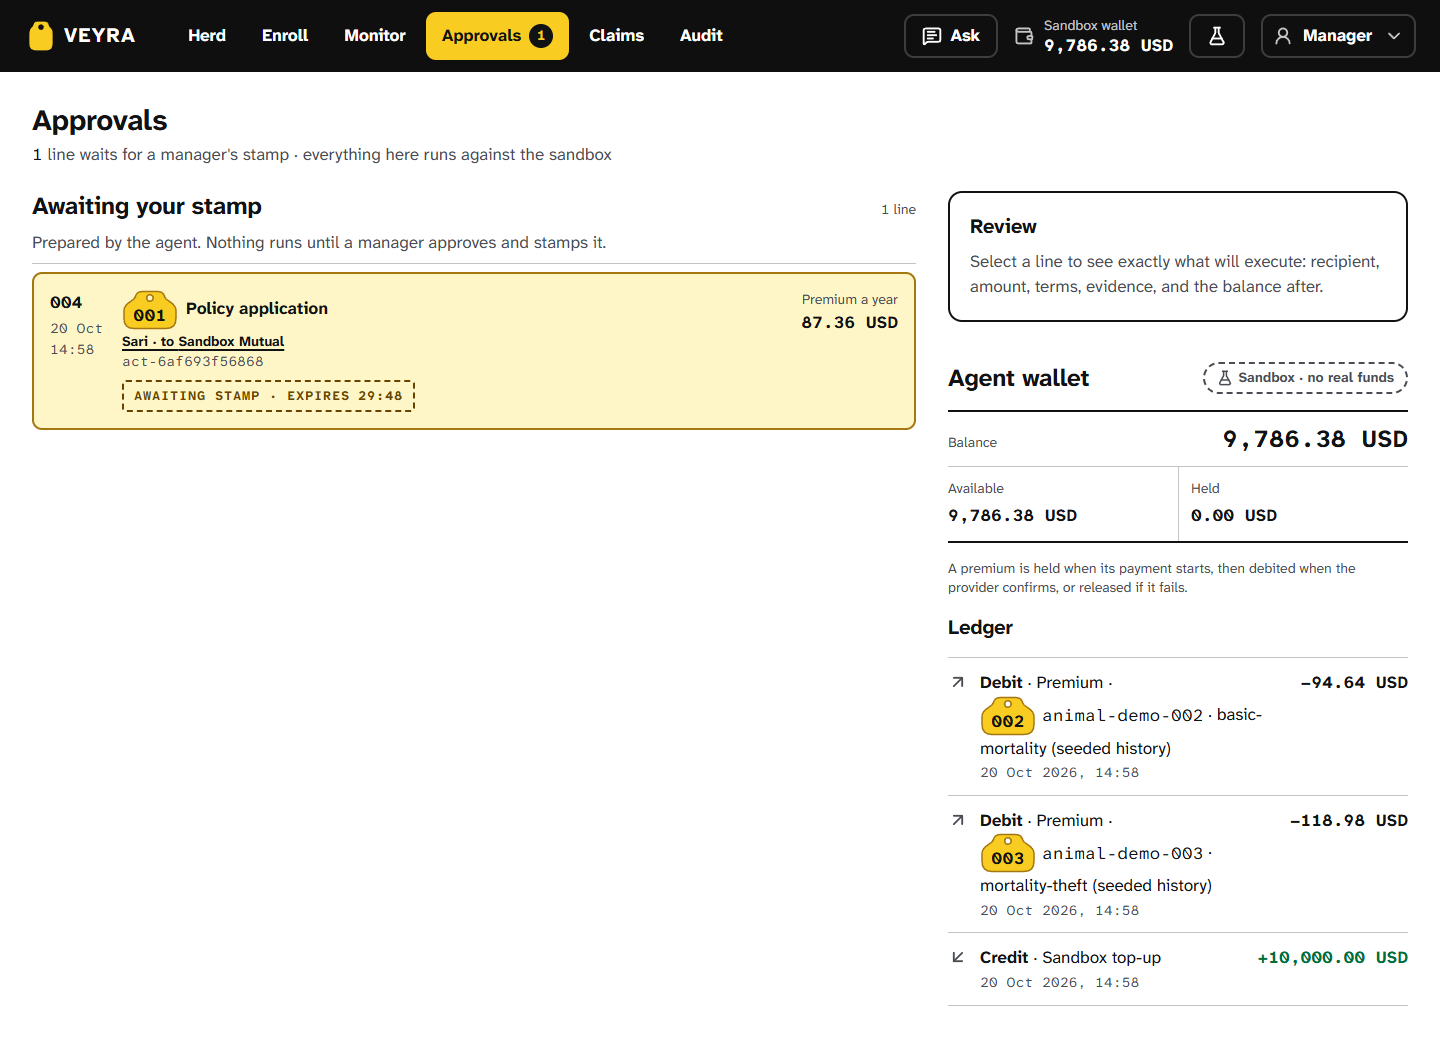
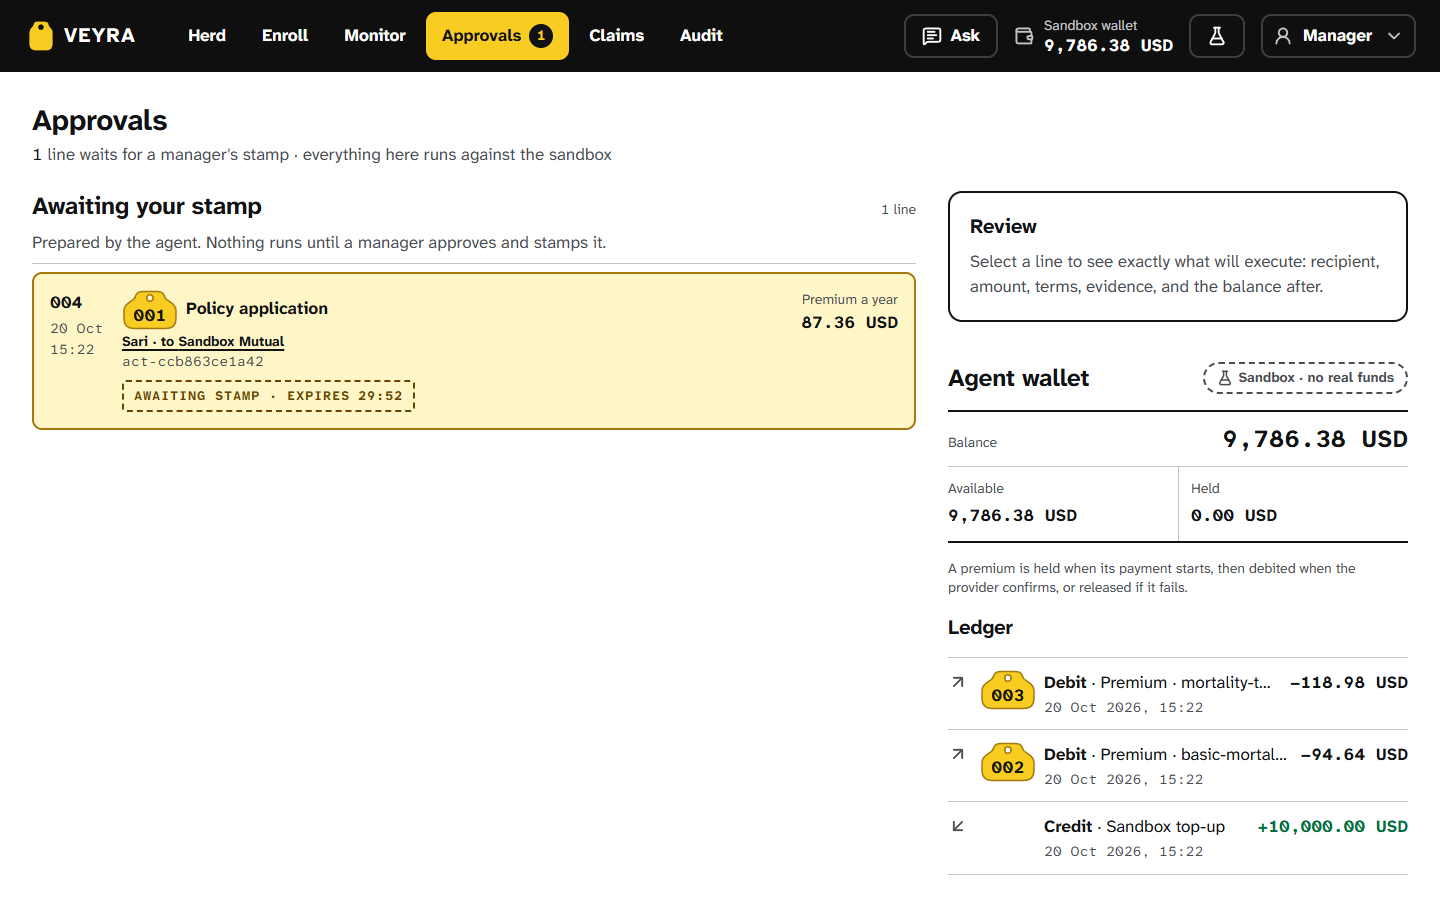
fix(web): compact passbook header on short screens, nowrap pills and herd meta, tag column in wallet ledger
- Passbook header compacts under max-height 820px (md tag, one meta line, one-row
  exposure strip) so the awaiting line and stamp slot sit above the decision bar
  at 1024x768 and 1440x900; .pb-list fades its top edge once scrolled.
- Status pills never wrap; beside the passbook at 1024 long statuses show a short
  word with the full label kept for screen readers. Herd meta segments are nowrap
  with their separator inside.
- Wallet ledger rows put the animal tag in a fixed leading column and keep the
  description on one truncated line with a title.
- Alert drawer window times let the zone label wrap instead of colliding.
- Refresh review captures; add monitor-replay.png and alert-time.png.

Changed region(s): [[0.0, 0.0, 1.0, 0.957], [0.9062, 0.7409, 0.9688, 0.8335], [0.875, 0.8953, 1.0, 0.9261]]

diff --git a/apps/web/src/components/PassbookPanel.tsx b/apps/web/src/components/PassbookPanel.tsx
@@ -1,6 +1,7 @@
 import { Lock, Stamp as StampIcon } from "lucide-react";
-import { useId, type ReactNode } from "react";
+import { useEffect, useId, useRef, type ReactNode } from "react";
 import { cn } from "../lib/cn";
+import { useMediaQuery } from "../lib/use-media-query";
 import { formatMoney, lineNumber } from "../lib/format";
 import { Money } from "./figures";
 import { Button } from "./Button";
@@ -92,25 +93,49 @@ export function PassbookPanel({
   const currency = summary?.currency ?? "USD";
   const uninsuredLow = summary ? Math.max(0, summary.exposureLowMinor - summary.insuredMinor) : 0;
   const uninsuredHigh = summary ? Math.max(0, summary.exposureHighMinor - summary.insuredMinor) : 0;
+  // On a short screen (a 1024×768 tablet) the header compacts so the waiting line and its stamp
+  // slot stay above the decision bar: a smaller tag, one meta line, and a one-row exposure strip.
+  const compact = useMediaQuery("(max-height: 820px)");
+  const cell = compact ? "py-2" : "py-3";
+  const listRef = useRef<HTMLOListElement>(null);
+
+  // Fade the top edge once lines scroll under it, so a cut-off earlier line reads as "more above".
+  useEffect(() => {
+    const list = listRef.current;
+    if (!list) return;
+    const update = () => {
+      if (list.scrollTop > 0) list.setAttribute("data-scrolled", "");
+      else list.removeAttribute("data-scrolled");
+    };
+    update();
+    list.addEventListener("scroll", update, { passive: true });
+    return () => list.removeEventListener("scroll", update);
+  }, [lines.length]);
 
   return (
     <section aria-labelledby={headingId} className={cn("flex min-h-0 flex-col bg-bg", className)}>
-      <div className="flex flex-col gap-5 px-5 pt-6 pb-5">
-        <div className="flex items-center gap-5">
-          <EarTag animalId={animal.id} state={animal.tagState} size="xl" />
+      <div className={cn("flex flex-col", compact ? "gap-3 px-5 pt-4 pb-3" : "gap-5 px-5 pt-6 pb-5")} data-compact={compact || undefined}>
+        <div className={cn("flex items-center", compact ? "gap-4" : "gap-5")}>
+          <EarTag animalId={animal.id} state={animal.tagState} size={compact ? "md" : "xl"} />
           <div className="flex min-w-0 flex-col gap-1">
             <Heading id={headingId} className="text-xl font-bold">
               {animal.name}
             </Heading>
-            <p className="text-muted">
-              <span className="figures whitespace-nowrap text-ink">{animal.id}</span>
-              <br />
-              {IDENTITY_WORDS[animal.tagState]}
-            </p>
+            {compact ? (
+              <p className="truncate text-sm text-muted">
+                <span className="figures whitespace-nowrap text-ink">{animal.id}</span> · {IDENTITY_WORDS[animal.tagState]}
+              </p>
+            ) : (
+              <p className="text-muted">
+                <span className="figures whitespace-nowrap text-ink">{animal.id}</span>
+                <br />
+                {IDENTITY_WORDS[animal.tagState]}
+              </p>
+            )}
           </div>
         </div>
         {/* Full width under the tag, so breed, age, and weight with their sources read on as few lines as possible. */}
-        {animal.description && <div className="-mt-2 text-muted">{animal.description}</div>}
+        {animal.description && <div className={cn("text-muted", !compact && "-mt-2")}>{animal.description}</div>}
 
         {facts && facts.length > 0 && (
           <dl className="grid grid-cols-2 gap-x-5">
@@ -127,16 +152,22 @@ export function PassbookPanel({
         )}
 
         {summary && (
-          <dl className="grid grid-cols-[minmax(0,1fr)_auto_minmax(0,1fr)] border-y-2 border-ink">
-            <div className="flex flex-col gap-1 py-3 pr-3">
+          <dl
+            className={cn(
+              "grid border-y-2 border-ink",
+              // Compact: each figure keeps to one line, so the strip is a single row of three cells.
+              compact ? "grid-cols-[auto_auto_minmax(0,1fr)] [&_dd]:text-sm [&_dd]:whitespace-nowrap" : "grid-cols-[minmax(0,1fr)_auto_minmax(0,1fr)]",
+            )}
+          >
+            <div className={cn("flex flex-col gap-1 pr-3", cell)}>
               <dt className="text-sm text-muted">Exposure</dt>
               <dd className="figures font-bold"><Money low={summary.exposureLowMinor} high={summary.exposureHighMinor} currency={currency} /></dd>
             </div>
-            <div className="flex flex-col gap-1 border-l border-line px-3 py-3">
+            <div className={cn("flex flex-col gap-1 border-l border-line px-3", cell)}>
               <dt className="text-sm text-muted">Insured</dt>
               <dd className="figures font-bold"><Money minor={summary.insuredMinor} currency={currency} whole /></dd>
             </div>
-            <div className="flex flex-col gap-1 border-l border-line py-3 pl-3">
+            <div className={cn("flex flex-col gap-1 border-l border-line pl-3", cell)}>
               <dt className="text-sm text-muted">Uninsured</dt>
               <dd className={cn("figures font-bold", uninsuredHigh > 0 && "text-danger")}>
                 {uninsuredHigh === 0 ? <Money minor={0} currency={currency} whole /> : <Money low={uninsuredLow} high={uninsuredHigh} currency={currency} />}
@@ -158,7 +189,7 @@ export function PassbookPanel({
             Nothing has posted yet. Enrollment writes the first line.
           </p>
         ) : (
-          <ol className="pb-list relative min-h-0 flex-1 overflow-y-auto border-t border-line px-1 [scrollbar-gutter:stable]">
+          <ol ref={listRef} className="pb-list relative min-h-0 flex-1 overflow-y-auto border-t border-line px-1 [scrollbar-gutter:stable]">
             {lines.map((line) => (
               <PassbookLine key={line.id} {...line} timeZone={timeZone} />
             ))}

diff --git a/apps/web/src/features/approvals/WalletPanel.tsx b/apps/web/src/features/approvals/WalletPanel.tsx
@@ -1,9 +1,9 @@
 import { ArrowDownLeft, ArrowUpRight, FlaskConical, Lock, LockOpen, type LucideIcon } from "lucide-react";
-import { Fragment, useId, type ReactNode } from "react";
+import { useId } from "react";
 import { Link } from "react-router";
 import { ErrorNotice, LoadingRegion, Skeleton } from "../../components/feedback";
 import { EarTag } from "../../components/EarTag";
-import { Money, Mono, Timestamp } from "../../components/figures";
+import { Money, Timestamp } from "../../components/figures";
 import { tagStateFor } from "../../lib/animal";
 import { cn } from "../../lib/cn";
 import { formatMoney } from "../../lib/format";
@@ -18,21 +18,11 @@ function withoutLeadingWord(description: string, word: string): string {
 
 const ANIMAL_ID = /^animal-[\w-]+$/;
 
-/** Prints any animal ID in a ledger description as its tag chip and the mono ID. */
-function describe(text: string, identity: Map<string, string>): ReactNode {
-  return text.split(" · ").map((part, i) => (
-    <Fragment key={i}>
-      {i > 0 && " · "}
-      {ANIMAL_ID.test(part) ? (
-        <span className="inline-flex items-center gap-1.5 align-middle">
-          <EarTag animalId={part} state={tagStateFor(identity.get(part) ?? "confirmed")} />
-          <Mono>{part}</Mono>
-        </span>
-      ) : (
-        part
-      )}
-    </Fragment>
-  ));
+/** Splits a ledger description into the animal it names (shown as the row's tag) and the remaining words. */
+function splitAnimal(text: string): { animalId: string | null; rest: string } {
+  const parts = text.split(" · ");
+  const animalId = parts.find((part) => ANIMAL_ID.test(part)) ?? null;
+  return { animalId, rest: parts.filter((part) => part !== animalId).join(" · ") };
 }
 
 const ENTRY: Record<WalletEntry["entry_type"], { icon: LucideIcon; word: string; sign: 1 | -1 | 0 }> = {
@@ -99,16 +89,23 @@ export function WalletPanel({ className }: { className?: string }) {
                 .map((entry) => {
                   const kind = ENTRY[entry.entry_type];
                   const Icon = kind.icon;
+                  const { animalId, rest } = splitAnimal(withoutLeadingWord(entry.description, kind.word));
+                  const fullText = [kind.word, rest, animalId].filter(Boolean).join(" · ");
                   const figure =
                     kind.sign === 0
                       ? formatMoney(entry.amount_minor, entry.currency)
                       : formatMoney(kind.sign * entry.amount_minor, entry.currency, { signed: true });
                   return (
-                    <li key={entry.id} className="grid grid-cols-[auto_minmax(0,1fr)_auto] items-start gap-x-3 border-b border-line py-3">
+                    // The tag sits in its own leading column so the description keeps to one line.
+                    <li key={entry.id} className="grid grid-cols-[auto_3.25rem_minmax(0,1fr)_auto] items-start gap-x-3 border-b border-line py-3">
                       <Icon aria-hidden="true" className="mt-0.5 size-5 text-muted" strokeWidth={2.25} />
+                      <span className="flex min-h-6 items-start">
+                        {animalId && <EarTag animalId={animalId} state={tagStateFor(identity.get(animalId) ?? "confirmed")} />}
+                      </span>
                       <div className="flex min-w-0 flex-col gap-0.5">
-                        <span>
-                          <span className="font-bold">{kind.word}</span> · {describe(withoutLeadingWord(entry.description, kind.word), identity)}
+                        <span className="truncate" title={fullText}>
+                          <span className="font-bold">{kind.word}</span>
+                          {rest && <> · {rest}</>}
                         </span>
                         <span className="text-sm text-muted">
                           <Timestamp value={entry.created_at} mode="absolute" />

diff --git a/apps/web/src/lib/animal.ts b/apps/web/src/lib/animal.ts
@@ -25,10 +25,10 @@ export function identityPill(identityStatus: string | null | undefined): { tone:
   }
 }
 
-export function coveragePill(status: string | null | undefined): { tone: StatusTone; label: string } {
+export function coveragePill(status: string | null | undefined): { tone: StatusTone; label: string; shortLabel?: string } {
   if (status === "active") return { tone: "ok", label: "Active" };
   if (status === "pending") return { tone: "awaiting", label: "Pending" };
-  return { tone: "danger", label: "Not covered" };
+  return { tone: "danger", label: "Not covered", shortLabel: "None" };
 }
 
 export type HealthStatus =
@@ -39,17 +39,19 @@ export type HealthStatus =
   | "normal"
   | "not_monitored";
 
-const HEALTH_PILL: Record<HealthStatus, { tone: StatusTone; label: string; icon?: LucideIcon }> = {
-  needs_inspection: { tone: "danger", label: "Needs inspection", icon: Eye },
-  under_review: { tone: "uncertain", label: "Under review", icon: Hourglass },
-  observation_gap: { tone: "uncertain", label: "Observation gap", icon: EyeOff },
-  veterinary_reviewed: { tone: "ok", label: "Vet reviewed", icon: Stethoscope },
+type HealthPill = { tone: StatusTone; label: string; shortLabel?: string; icon?: LucideIcon };
+
+const HEALTH_PILL: Record<HealthStatus, HealthPill> = {
+  needs_inspection: { tone: "danger", label: "Needs inspection", shortLabel: "Inspect", icon: Eye },
+  under_review: { tone: "uncertain", label: "Under review", shortLabel: "Review", icon: Hourglass },
+  observation_gap: { tone: "uncertain", label: "Observation gap", shortLabel: "Gap", icon: EyeOff },
+  veterinary_reviewed: { tone: "ok", label: "Vet reviewed", shortLabel: "Vetted", icon: Stethoscope },
   normal: { tone: "ok", label: "Normal" },
-  not_monitored: { tone: "neutral", label: "Not monitored" },
+  not_monitored: { tone: "neutral", label: "Not monitored", shortLabel: "None" },
 };
 
 /** A monitoring state from records, never a diagnosis: icon plus plain words. */
-export function healthPill(status: HealthStatus | null | undefined): { tone: StatusTone; label: string; icon?: LucideIcon } {
+export function healthPill(status: HealthStatus | null | undefined): HealthPill {
   return HEALTH_PILL[status ?? "not_monitored"] ?? HEALTH_PILL.not_monitored;
 }
 

diff --git a/apps/web/src/features/herd/HerdPage.tsx b/apps/web/src/features/herd/HerdPage.tsx
@@ -14,6 +14,7 @@ import { Provenance, type Source } from "../../components/Provenance";
 import { StatusPill } from "../../components/StatusPill";
 import { useShellSummary } from "../../app/use-shell-summary";
 import { asSource, coveragePill, healthPill, identityPill, productName, tagStateFor } from "../../lib/animal";
+import { cn } from "../../lib/cn";
 import { formatMoney, formatMoneyRange } from "../../lib/format";
 import type { HerdFilters } from "../../lib/query-keys";
 import { useMediaQuery } from "../../lib/use-media-query";
@@ -232,20 +233,21 @@ function HerdMeta() {
   if (!summary) return <span>Every tagged animal, its exposure, and its cover.</span>;
   const { currency } = summary;
   return (
+    // Each segment keeps to one line and carries its own trailing separator, so a wrap never strands a "·".
     <span className="flex flex-wrap gap-x-2 gap-y-1">
-      <span>
+      <span className="whitespace-nowrap">
         <Mono className="text-ink">{summary.animal_count}</Mono> {summary.animal_count === 1 ? "animal" : "animals"}
+        <span aria-hidden="true"> ·</span>
       </span>
-      <span aria-hidden="true">·</span>
-      <span>
+      <span className="whitespace-nowrap">
         indicative exposure <Mono className="text-ink">{formatMoneyRange(summary.exposure_low_minor, summary.exposure_high_minor, currency)}</Mono>
+        <span aria-hidden="true"> ·</span>
       </span>
-      <span aria-hidden="true">·</span>
-      <span>
+      <span className="whitespace-nowrap">
         insured <Mono className="text-ink">{formatMoney(summary.insured_minor, currency, { whole: true })}</Mono>
+        <span aria-hidden="true"> ·</span>
       </span>
-      <span aria-hidden="true">·</span>
-      <span className={summary.uncovered_count > 0 ? "font-bold text-danger" : undefined}>
+      <span className={cn("whitespace-nowrap", summary.uncovered_count > 0 && "font-bold text-danger")}>
         <Mono>{summary.uncovered_count}</Mono> uncovered
       </span>
     </span>

diff --git a/apps/web/src/features/alerts/AlertDrawer.tsx b/apps/web/src/features/alerts/AlertDrawer.tsx
@@ -43,11 +43,15 @@ function Window({ label, start, end }: { label: string; start: string | null; en
         {start && end ? (
           <span className="flex flex-col">
             <span className="figures">{formatAbsolute(start).split(",")[0]}</span>
-            <span className="figures whitespace-nowrap">
-              <time dateTime={start}>{formatClockSeconds(start)}</time>
-              <span aria-hidden="true"> – </span>
-              <span className="sr-only"> to </span>
-              <time dateTime={end}>{formatClockSeconds(end)}</time> {zoneLabel(start)}
+            {/* The zone may drop under the times in a narrow column rather than run into its neighbour. */}
+            <span className="figures flex flex-wrap gap-x-2">
+              <span className="whitespace-nowrap">
+                <time dateTime={start}>{formatClockSeconds(start)}</time>
+                <span aria-hidden="true"> – </span>
+                <span className="sr-only"> to </span>
+                <time dateTime={end}>{formatClockSeconds(end)}</time>
+              </span>
+              <span className="whitespace-nowrap">{zoneLabel(start)}</span>
             </span>
           </span>
         ) : (
@@ -277,7 +281,7 @@ export function AlertDrawer({ alertId, onClose }: AlertDrawerProps) {
             <h3 id={`${noteId}-win`} className="text-md font-bold">
               Observation against baseline
             </h3>
-            <dl className="grid gap-4 sm:grid-cols-2">
+            <dl className="grid gap-x-6 gap-y-4 sm:grid-cols-2">
               <Window label="Observation window" start={alert.window_start} end={alert.window_end} />
               <Window
                 label={alert.kind === "reduced_movement" ? "Baseline window" : "Baseline"}

diff --git a/apps/web/src/styles/components.css b/apps/web/src/styles/components.css
@@ -157,6 +157,10 @@
   margin: 0;
   padding: 0;
 }
+/* Once lines scroll under the list's top edge, fade it so the cut-off earlier line reads as "more above". */
+.pb-list[data-scrolled] {
+  mask-image: linear-gradient(to bottom, transparent 0, #000 24px);
+}
 
 .pb-line {
   display: grid;
@@ -338,19 +342,22 @@
     padding-inline: 0.625rem;
   }
 }
-/* Beside the 440px passbook a two-word status ("Observation gap", "Not covered") may take two lines
-   inside its pill rather than be cut: every word stays visible and the row still keeps to 64px. */
+/* Status pills never wrap. Beside the 440px passbook (a 552px table at 1024) a long status shows its
+   short word; the full label stays in the accessible name. */
+.pill-label-short {
+  display: none;
+}
 @container (min-width: 34rem) and (max-width: 39.9375rem) {
-  .dt-wrap[data-stack="narrow"] .dt td .rounded-pill {
-    height: auto;
-    min-height: 2rem;
-    padding-block: 0.125rem;
-    line-height: 1.2;
-    white-space: normal;
+  .dt-wrap[data-stack="narrow"] .dt td .pill-label-short {
+    display: inline;
   }
-  .dt-wrap[data-stack="narrow"] .dt td .rounded-pill > .truncate {
-    overflow: visible;
-    white-space: normal;
+  .dt-wrap[data-stack="narrow"] .dt td .pill-label-full {
+    position: absolute;
+    width: 1px;
+    height: 1px;
+    overflow: hidden;
+    clip-path: inset(50%);
+    white-space: nowrap;
   }
 }
 

diff --git a/apps/web/src/components/StatusPill.tsx b/apps/web/src/components/StatusPill.tsx
@@ -22,12 +22,17 @@ const TONE_ICON: Record<StatusTone, LucideIcon> = {
 export interface StatusPillProps {
   tone: StatusTone;
   label: string;
+  /**
+   * A shorter word shown where a narrow table can't fit the full label (beside the passbook at
+   * 1024px). The full label stays in the accessible name.
+   */
+  shortLabel?: string;
   /** Replace the tone's default icon. State is always icon plus text, never color alone. */
   icon?: LucideIcon;
   className?: string;
 }
 
-export function StatusPill({ tone, label, icon, className }: StatusPillProps) {
+export function StatusPill({ tone, label, shortLabel, icon, className }: StatusPillProps) {
   const Icon = icon ?? TONE_ICON[tone];
   return (
     <span
@@ -38,7 +43,12 @@ export function StatusPill({ tone, label, icon, className }: StatusPillProps) {
       )}
     >
       <Icon aria-hidden="true" className="size-4 flex-none" strokeWidth={2.25} />
-      <span className="truncate">{label}</span>
+      <span className={cn("truncate", shortLabel && "pill-label-full")}>{label}</span>
+      {shortLabel && (
+        <span className="pill-label-short" aria-hidden="true">
+          {shortLabel}
+        </span>
+      )}
     </span>
   );
 }
